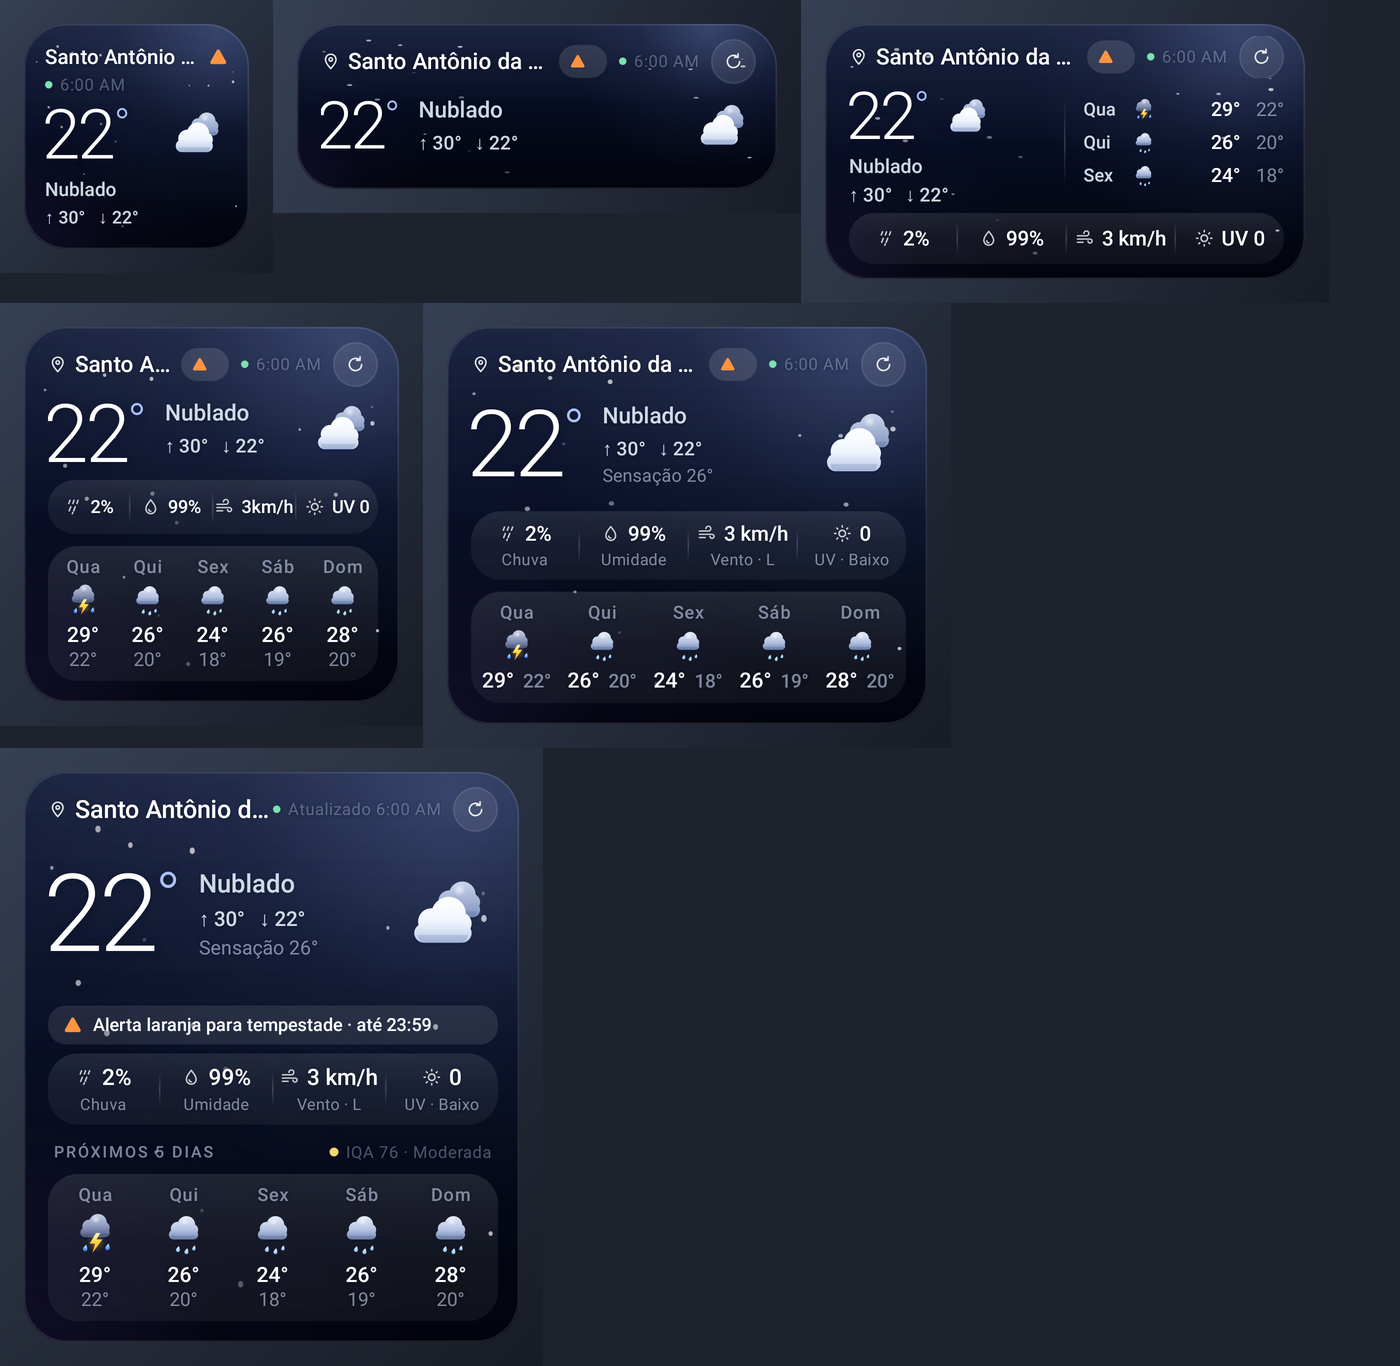
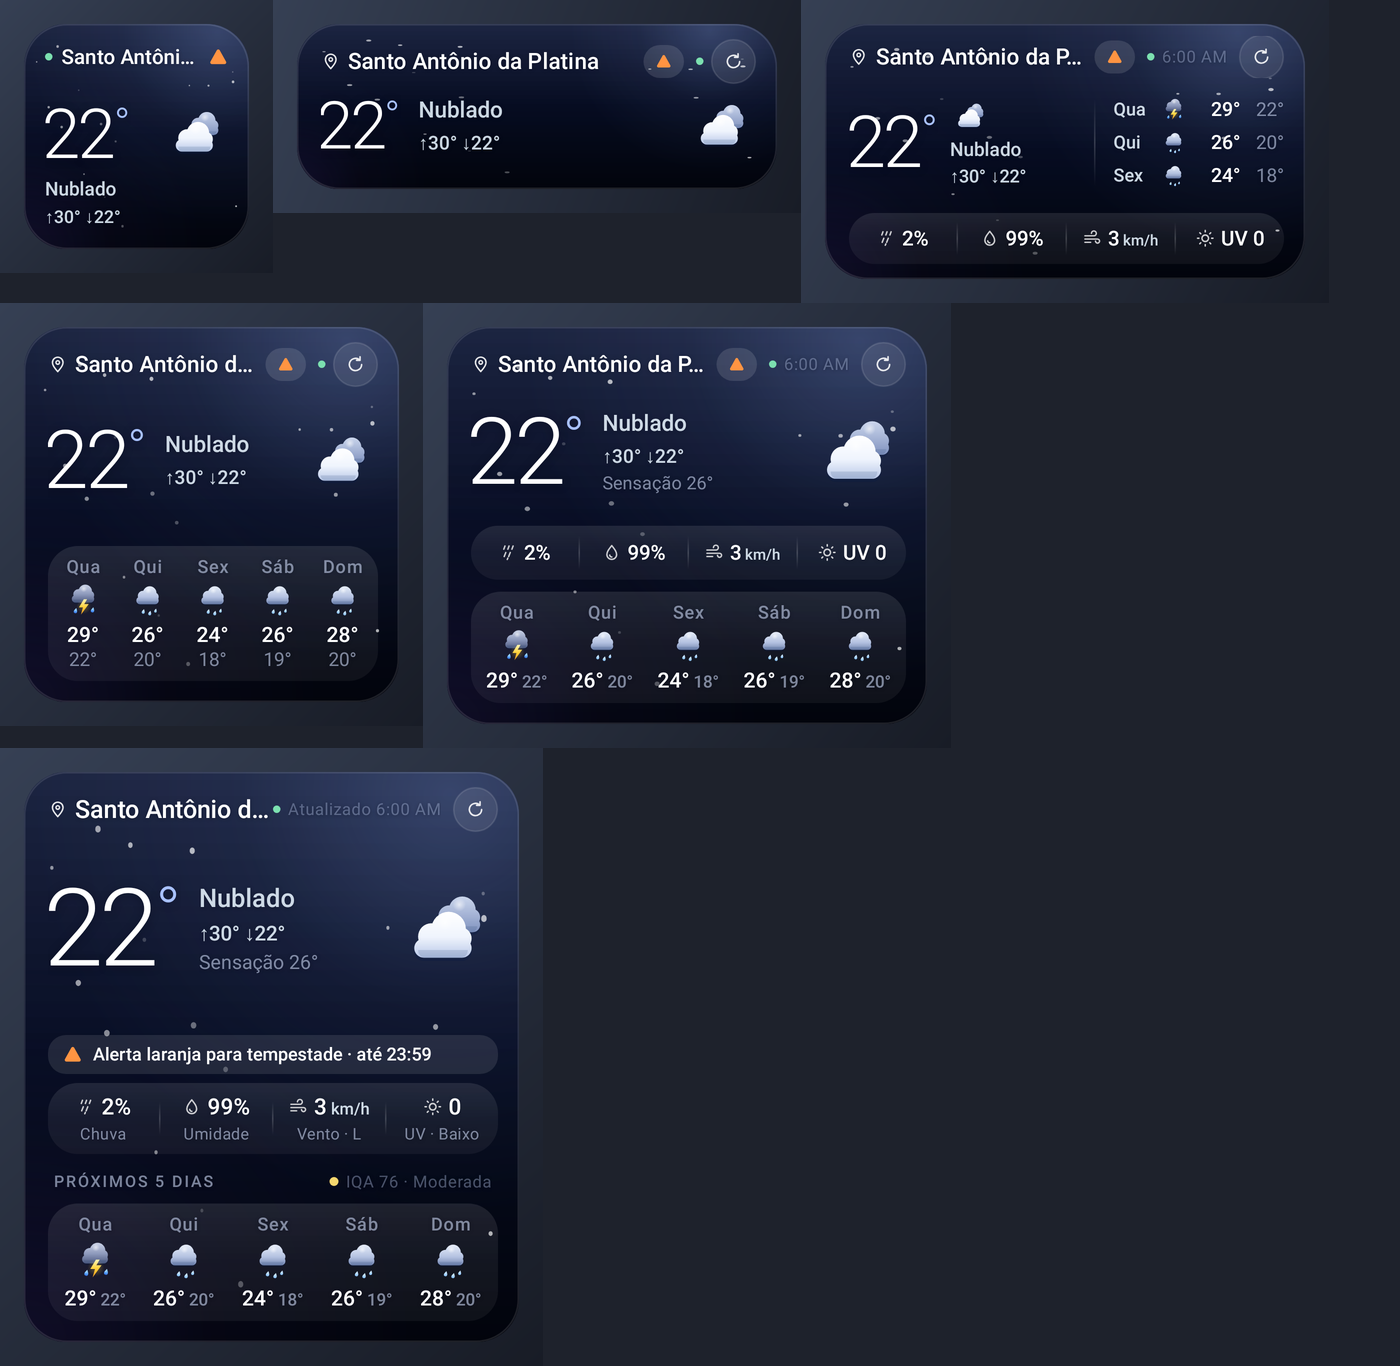
Corrige informações encobertas no widget com fontes de tema grandes
- Média: condição e máx/mín ao lado da temperatura (menos altura)
- 3x2 e 3x3: composição própria; compacta sem a linha de horário
- Unidades menores, espaçamentos mais curtos, faixa de alerta em 2 linhas
- Teste com fonte 30% maior (simula HyperOS/MIUI) em todos os tamanhos;
  falha se texto for cortado pelo contêiner ou se número for truncado

Claude-Session: https://claude.ai/code/session_01W2PtX1KNnVKciqynqcyRmn

diff --git a/app/src/main/java/app/tempo/weather/widget/WidgetRenderer.kt b/app/src/main/java/app/tempo/weather/widget/WidgetRenderer.kt
@@ -55,10 +55,10 @@ enum class WidgetSize(
 ) {
     COMPACT(R.layout.widget_compact, 0f, 0f, 46f, showFeels = false, showMetrics = false),
     MEDIUM_SHORT(R.layout.widget_expanded, 220f, 0f, 44f, iconDp = 44f, showFeels = false, showMetrics = false),
-    MEDIUM_NARROW(R.layout.widget_medium, 220f, 150f, 44f, iconDp = 0f, miniForecast = true),
-    MEDIUM(R.layout.widget_medium, 280f, 150f, 44f, miniForecast = true),
-    EXPANDED_NARROW(R.layout.widget_expanded, 250f, 250f, 54f, iconDp = 48f, showFeels = false, forecast = true),
-    EXPANDED(R.layout.widget_expanded, 300f, 250f, 62f, metricLabels = true, forecast = true),
+    MEDIUM_NARROW(R.layout.widget_expanded, 220f, 150f, 46f, iconDp = 44f, showFeels = false),
+    MEDIUM(R.layout.widget_medium, 280f, 150f, 48f, miniForecast = true),
+    EXPANDED_NARROW(R.layout.widget_expanded, 250f, 250f, 54f, iconDp = 48f, showFeels = false, showMetrics = false, forecast = true),
+    EXPANDED(R.layout.widget_expanded, 300f, 250f, 62f, forecast = true),
     LARGE(R.layout.widget_expanded, 300f, 330f, 72f, iconDp = 68f, metricLabels = true, forecast = true, roomy = true);
 
     companion object {
@@ -177,6 +177,8 @@ object WidgetRenderer {
         // --- Status de atualização ---
         val (statusText, fresh) = statusLine(context, model, short = !size.roomy)
         rv.setTextViewText(R.id.updated, statusText)
+        // Em larguras estreitas só o ponto de status fica, para o nome da cidade caber.
+        if (!compact) rv.setViewVisibility(R.id.updated, if (size.minWidthDp < 280f && snap != null && !model.refreshing) View.GONE else View.VISIBLE)
         rv.setInt(R.id.status_dot, "setColorFilter", context.getColor(if (fresh) R.color.status_ok else R.color.status_stale))
         rv.setViewVisibility(R.id.status_dot, if (snap != null && !model.refreshing) View.VISIBLE else View.GONE)
 
@@ -206,7 +208,7 @@ object WidgetRenderer {
         rv.setTextViewText(
             R.id.hilo,
             today?.let {
-                if (size.longHiLo) "Máx ${deg(it.max)}  ·  Mín ${deg(it.min)}" else "↑ ${deg(it.max)}   ↓ ${deg(it.min)}"
+                if (size.longHiLo) "Máx ${deg(it.max)}  ·  Mín ${deg(it.min)}" else "↑${deg(it.max)} ↓${deg(it.min)}"
             } ?: "",
         )
         rv.setTextViewText(R.id.feels, "Sensação ${deg(cur.apparentTemperature)}")
@@ -248,8 +250,7 @@ object WidgetRenderer {
             val uvRounded = uv?.roundToInt()
             rv.setTextViewText(R.id.m0_value, rain?.let { "$it%" } ?: "--")
             rv.setTextViewText(R.id.m1_value, cur.humidity.takeIf { it >= 0 }?.let { "$it%" } ?: "--")
-            val narrow = size.minWidthDp < 280f
-            rv.setTextViewText(R.id.m2_value, cur.windSpeedKmh.takeIf { it >= 0 }?.let { if (narrow) "${it.roundToInt()}km/h" else "${it.roundToInt()} km/h" } ?: "--")
+            rv.setTextViewText(R.id.m2_value, cur.windSpeedKmh.takeIf { it >= 0 }?.let { unitSpan("${it.roundToInt()}", if (size.minWidthDp < 280f) "km/h" else " km/h") } ?: "--")
             rv.setTextViewText(R.id.m3_value, uvRounded?.let { if (labels) "$it" else "UV $it" } ?: "--")
             METRIC_ICON_IDS.forEach { rv.setInt(it, "setImageAlpha", 200) }
             METRIC_LABEL_IDS.forEach { rv.setViewVisibility(it, if (labels) View.VISIBLE else View.GONE) }
@@ -298,7 +299,7 @@ object WidgetRenderer {
                     rv.setTextViewText(ids[0], dayName(day.date))
                     rv.setImageViewResource(ids[1], WeatherCodes.icon(day.weatherCode, true))
                     rv.setContentDescription(ids[1], WeatherCodes.label(day.weatherCode))
-                    if (size.roomy || size.minWidthDp < 280f) {
+                    if (size.minWidthDp < 280f) {
                         rv.setViewVisibility(ids[3], View.VISIBLE)
                         rv.setTextViewText(ids[2], deg(day.max))
                         rv.setTextViewText(ids[3], deg(day.min))
@@ -385,8 +386,8 @@ object WidgetRenderer {
         }
         if (size == WidgetSize.LARGE && Build.VERSION.SDK_INT >= Build.VERSION_CODES.S) {
             DAY_IDS.forEach {
-                rv.setViewLayoutWidth(it[1], 34f, TypedValue.COMPLEX_UNIT_DIP)
-                rv.setViewLayoutHeight(it[1], 34f, TypedValue.COMPLEX_UNIT_DIP)
+                rv.setViewLayoutWidth(it[1], 30f, TypedValue.COMPLEX_UNIT_DIP)
+                rv.setViewLayoutHeight(it[1], 30f, TypedValue.COMPLEX_UNIT_DIP)
             }
         }
     }
@@ -435,11 +436,19 @@ object WidgetRenderer {
         return s
     }
 
+    /** Número em destaque e unidade menor e mais discreta ("3 km/h"). */
+    private fun unitSpan(value: String, unit: String): CharSequence {
+        val s = SpannableString(value + unit)
+        s.setSpan(RelativeSizeSpan(0.74f), value.length, s.length, Spanned.SPAN_EXCLUSIVE_EXCLUSIVE)
+        s.setSpan(ForegroundColorSpan(0xE0E8F5FF.toInt()), value.length, s.length, Spanned.SPAN_EXCLUSIVE_EXCLUSIVE)
+        return s
+    }
+
     private fun maxMinSpan(max: Double, min: Double): CharSequence {
         val a = deg(max)
-        val s = SpannableString("$a  ${deg(min)}")
+        val s = SpannableString("$a ${deg(min)}")
         s.setSpan(ForegroundColorSpan(0x99C9D6F2.toInt()), a.length, s.length, Spanned.SPAN_EXCLUSIVE_EXCLUSIVE)
-        s.setSpan(RelativeSizeSpan(0.9f), a.length, s.length, Spanned.SPAN_EXCLUSIVE_EXCLUSIVE)
+        s.setSpan(RelativeSizeSpan(0.82f), a.length, s.length, Spanned.SPAN_EXCLUSIVE_EXCLUSIVE)
         s.setSpan(android.text.style.StyleSpan(android.graphics.Typeface.NORMAL), a.length, s.length, Spanned.SPAN_EXCLUSIVE_EXCLUSIVE)
         return s
     }

diff --git a/app/src/test/java/app/tempo/weather/WidgetRenderTest.kt b/app/src/test/java/app/tempo/weather/WidgetRenderTest.kt
@@ -135,6 +135,10 @@ class WidgetRenderTest {
                 assertTrue("$label: '${v.text}' fora dos limites ($x,$y ${v.width}x${v.height} em ${rw}x$rh)",
                     x >= 0 && y >= 0 && x + v.width <= rw + 1 && y + v.height <= rh + 1)
                 assertTrue("$label: '${v.text}' com altura insuficiente", v.height >= v.lineHeight * 0.8 || v.maxLines == 0)
+                // Valores (números) nunca podem ser truncados com reticências; nomes longos de cidade podem.
+                val ell = v.layout?.let { l -> (0 until l.lineCount).any { l.getEllipsisCount(it) > 0 } } ?: false
+                val isValue = v.text.any { it.isDigit() } && v.id != app.tempo.weather.R.id.city
+                assertTrue("$label: '${v.text}' truncado com reticências", !(ell && isValue))
                 // Também não pode ser cortado pelo contêiner pai (clipChildren).
                 val parent = v.parent as? View
                 if (parent != null && parent !== root) {
@@ -154,6 +158,24 @@ class WidgetRenderTest {
                 val v = render("${sName}_$label", wh.first, wh.second, model(snap, now))
                 assertInside(v, "${sName}_$label")
             }
+        }
+    }
+
+    /**
+     * Fontes de tema (ex.: HyperOS/MIUI) e a escala de fonte de acessibilidade deixam o texto bem
+     * mais alto. Com 30% a mais, nada pode ser cortado.
+     */
+    @Test
+    fun survivesLargeThemeFonts() {
+        org.robolectric.RuntimeEnvironment.setFontScale(1.3f)
+        try {
+            val (_, snap, now) = scenarios.first()
+            for ((label, wh) in sizes) {
+                val v = render("fontscale_$label", wh.first, wh.second, model(snap, now))
+                assertInside(v, "fontscale_$label")
+            }
+        } finally {
+            org.robolectric.RuntimeEnvironment.setFontScale(1f)
         }
     }
 

diff --git a/tools/design/gen_layouts.py b/tools/design/gen_layouts.py
@@ -79,12 +79,12 @@ def status(extra=""):
 def alert_chip():
     return '''<LinearLayout android:id="@+id/alert_chip" android:layout_width="wrap_content" android:layout_height="22dp"
                     android:layout_marginStart="4dp" android:layout_marginEnd="8dp" android:background="@drawable/chip"
-                    android:gravity="center_vertical" android:orientation="horizontal" android:paddingStart="7dp"
-                    android:paddingEnd="9dp" android:visibility="gone">
+                    android:gravity="center_vertical" android:orientation="horizontal" android:paddingStart="8dp"
+                    android:paddingEnd="8dp" android:visibility="gone">
                     <ImageView android:id="@+id/alert_icon" android:layout_width="11dp" android:layout_height="11dp"
-                        android:layout_marginEnd="5dp" android:src="@drawable/gl_alert" android:importantForAccessibility="no" />
+                        android:src="@drawable/gl_alert" android:importantForAccessibility="no" />
                     <TextView android:id="@+id/alert_text" style="@style/WText.Chip" android:layout_width="wrap_content"
-                        android:layout_height="wrap_content" />
+                        android:layout_height="wrap_content" android:layout_marginStart="5dp" android:layout_marginEnd="1dp" />
                 </LinearLayout>'''
 
 
@@ -140,7 +140,7 @@ def metrics(two_line, top, vpad):
                     <LinearLayout android:layout_width="wrap_content" android:layout_height="wrap_content"
                         android:gravity="center_vertical" android:orientation="horizontal">
                         <ImageView android:id="@+id/m{i}_icon" android:layout_width="13dp" android:layout_height="13dp"
-                            android:layout_marginEnd="5dp" android:src="@drawable/{glyph}" android:importantForAccessibility="no" />
+                            android:layout_marginEnd="4dp" android:src="@drawable/{glyph}" android:importantForAccessibility="no" />
                         <TextView android:id="@+id/m{i}_value" style="@style/WText.MetricValue" android:layout_width="wrap_content"
                             android:layout_height="wrap_content" />
                     </LinearLayout>{label}
@@ -192,7 +192,7 @@ def alert_banner():
             <ImageView android:id="@+id/banner_icon" android:layout_width="13dp" android:layout_height="13dp"
                 android:layout_marginEnd="7dp" android:src="@drawable/gl_alert" android:importantForAccessibility="no" />
             <TextView android:id="@+id/banner_text" style="@style/WText.Chip" android:layout_width="0dp"
-                android:layout_height="wrap_content" android:layout_weight="1" android:textSize="12sp" />
+                android:layout_height="wrap_content" android:layout_weight="1" android:textSize="12sp" android:maxLines="2" />
         </LinearLayout>'''
 
 
@@ -205,19 +205,14 @@ compact = f'''    <LinearLayout android:layout_width="match_parent" android:layo
         android:orientation="vertical" android:padding="14dp">
         <LinearLayout android:layout_width="match_parent" android:layout_height="wrap_content"
             android:gravity="center_vertical" android:orientation="horizontal">
+            <ImageView android:id="@+id/status_dot" android:layout_width="5dp" android:layout_height="5dp"
+                android:layout_marginEnd="6dp" android:src="@drawable/status_dot" android:importantForAccessibility="no" />
             <TextView android:id="@+id/city" style="@style/WText.City" android:layout_width="0dp"
                 android:layout_height="wrap_content" android:layout_weight="1" android:textSize="13.5sp"
                 android:text="@string/app_name" />
             <ImageView android:id="@+id/alert_icon" android:layout_width="13dp" android:layout_height="13dp"
                 android:layout_marginStart="4dp" android:src="@drawable/gl_alert" android:visibility="gone"
                 android:contentDescription="@string/cd_alert" />
-        </LinearLayout>
-        <LinearLayout android:layout_width="match_parent" android:layout_height="wrap_content"
-            android:layout_marginTop="4dp" android:gravity="center_vertical" android:orientation="horizontal">
-            <ImageView android:id="@+id/status_dot" android:layout_width="5dp" android:layout_height="5dp"
-                android:layout_marginEnd="5dp" android:src="@drawable/status_dot" android:importantForAccessibility="no" />
-            <TextView android:id="@+id/updated" style="@style/WText.Caption" android:layout_width="0dp"
-                android:layout_height="wrap_content" android:layout_weight="1" />
         </LinearLayout>
         <FrameLayout android:layout_width="match_parent" android:layout_height="0dp" android:layout_weight="1" />
         <LinearLayout android:layout_width="match_parent" android:layout_height="wrap_content"
@@ -253,17 +248,18 @@ medium = f'''    <LinearLayout android:layout_width="match_parent" android:layou
         {header(height=28)}
         <LinearLayout android:layout_width="match_parent" android:layout_height="0dp" android:layout_weight="1"
             android:gravity="center_vertical" android:orientation="horizontal">
-            <LinearLayout android:layout_width="0dp" android:layout_height="wrap_content" android:layout_weight="1"
-                android:orientation="vertical">
-                <LinearLayout android:layout_width="wrap_content" android:layout_height="wrap_content"
-                    android:gravity="center_vertical" android:orientation="horizontal">
-                    {temp_pair(48, ' android:layout_marginStart="-2dp"')}
-                    {icon_box(36, ' android:layout_marginStart="6dp"')}
+            <!-- Temperatura e, ao lado, ícone + condição + máx/mín: pouca altura, resistente a fontes grandes -->
+            <LinearLayout android:layout_width="0dp" android:layout_height="wrap_content" android:layout_weight="1.35"
+                android:gravity="center_vertical" android:orientation="horizontal">
+                {temp_pair(46, ' android:layout_marginStart="-2dp"')}
+                <LinearLayout android:layout_width="0dp" android:layout_height="wrap_content" android:layout_weight="1"
+                    android:layout_marginStart="8dp" android:orientation="vertical">
+                    {icon_box(26)}
+                    <TextView android:id="@+id/condition" style="@style/WText.Condition" android:layout_width="match_parent"
+                        android:layout_height="wrap_content" android:layout_marginTop="2dp" android:textSize="12.5sp" />
+                    <TextView android:id="@+id/hilo" style="@style/WText.HiLo" android:layout_width="match_parent"
+                        android:layout_height="wrap_content" android:layout_marginTop="2dp" android:textSize="12sp" />
                 </LinearLayout>
-                <TextView android:id="@+id/condition" style="@style/WText.Condition" android:layout_width="match_parent"
-                    android:layout_height="wrap_content" android:textSize="13sp" />
-                <TextView android:id="@+id/hilo" style="@style/WText.HiLo" android:layout_width="match_parent"
-                    android:layout_height="wrap_content" android:layout_marginTop="2dp" />
             </LinearLayout>
             <ImageView android:id="@+id/divider" android:layout_width="1dp" android:layout_height="58dp"
                 android:layout_marginStart="10dp" android:layout_marginEnd="12dp" android:src="@drawable/hairline_v"
